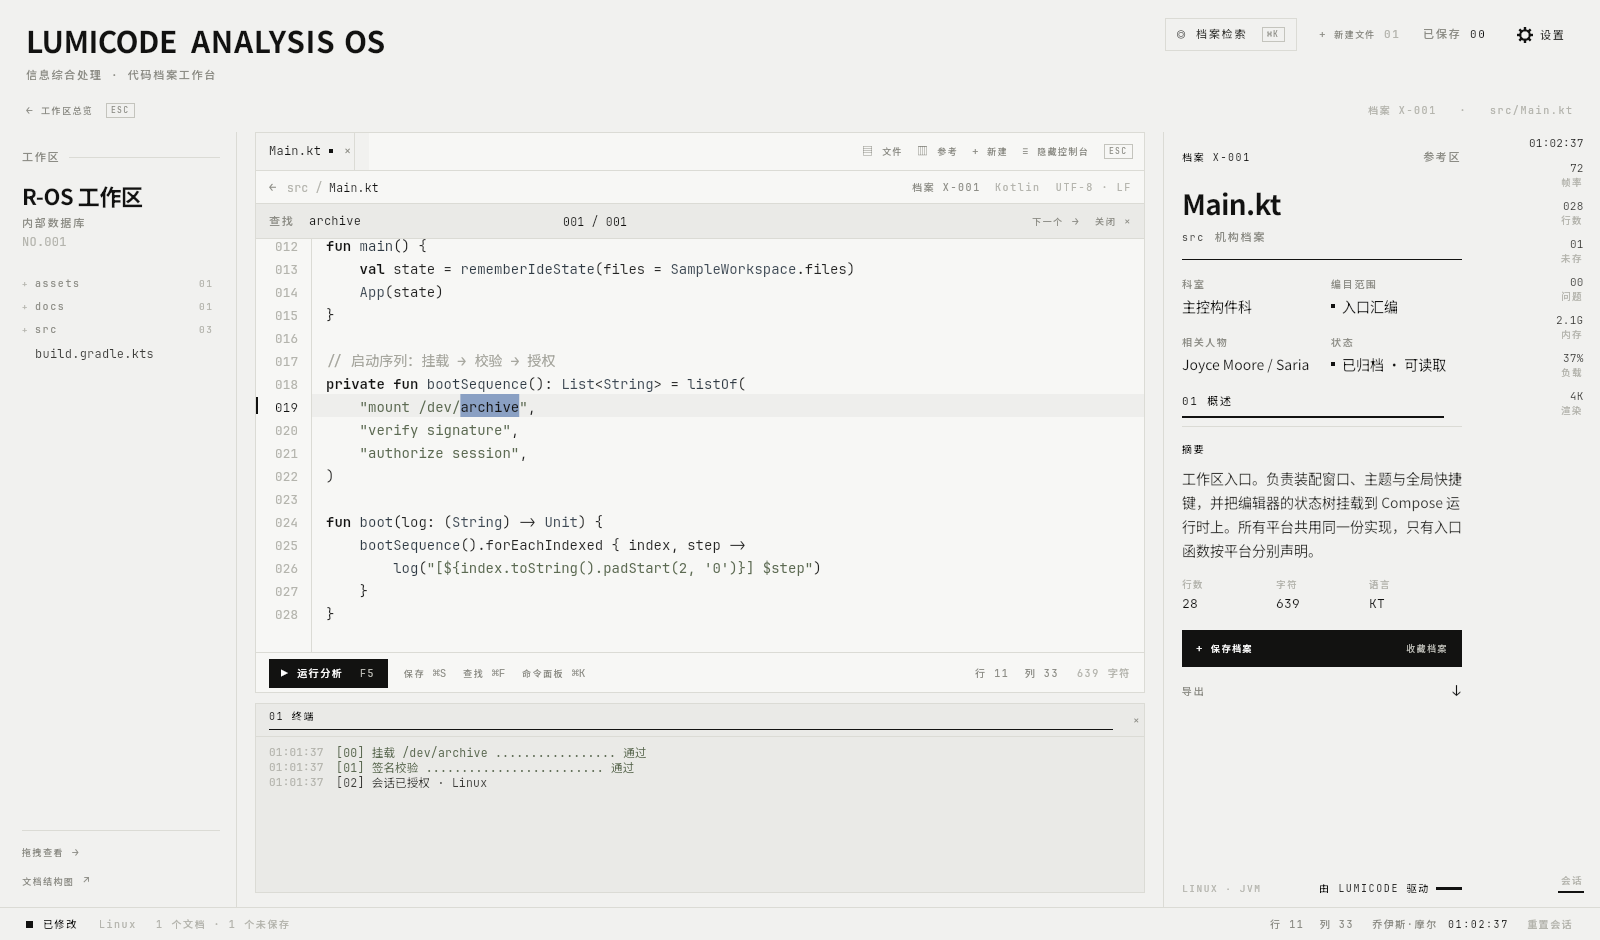
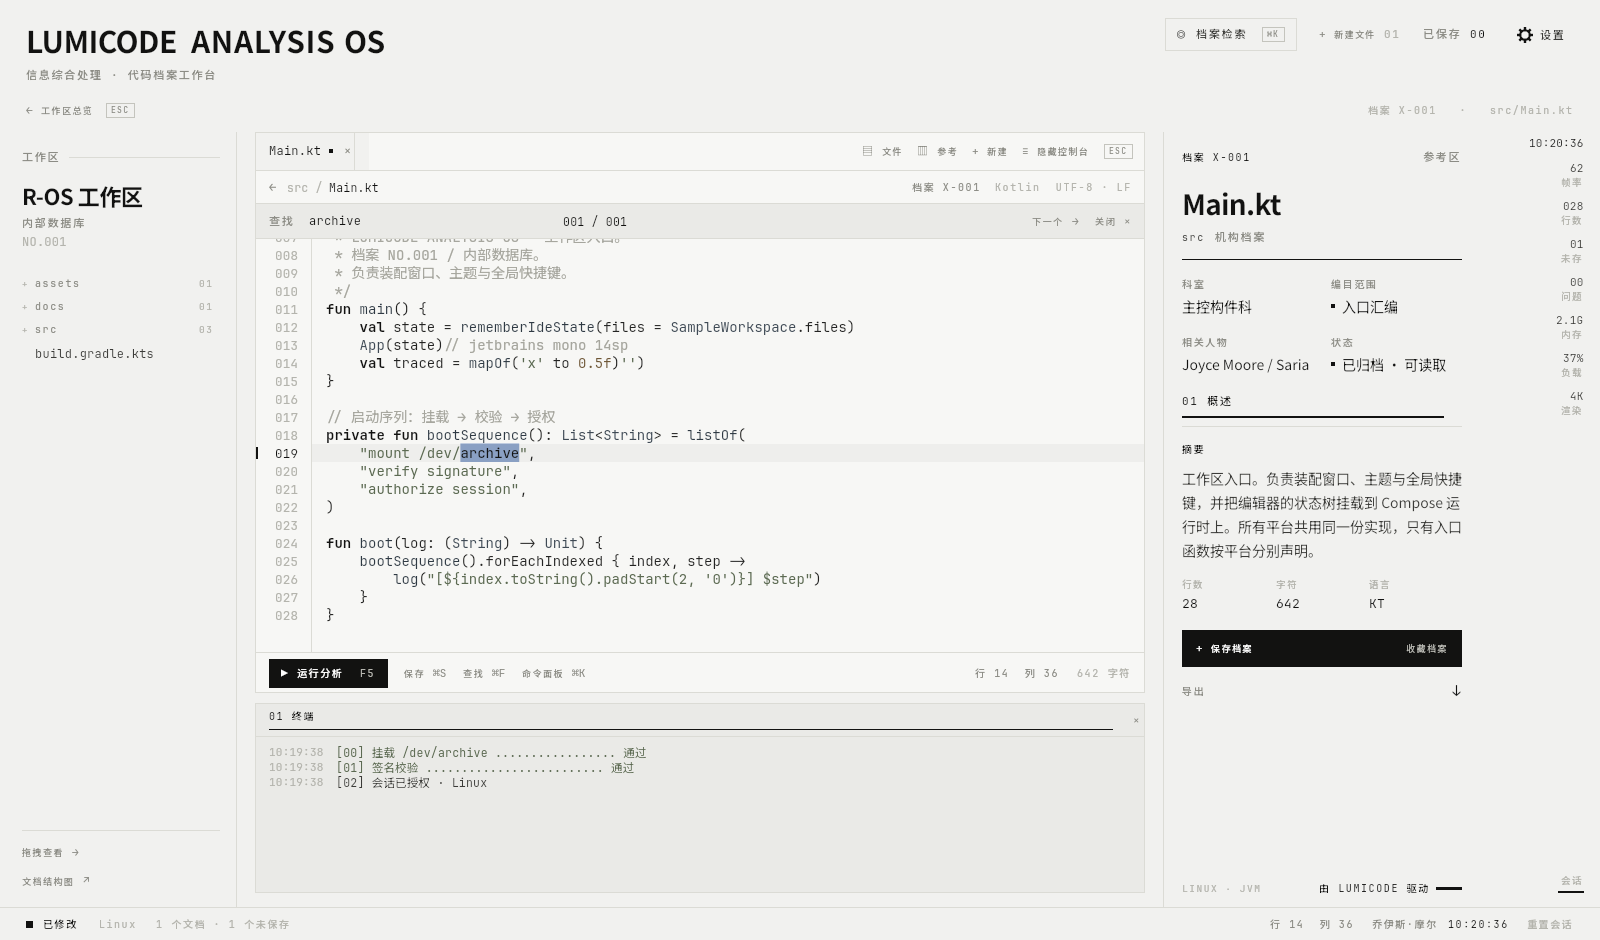
fix(editor): 行阴影真正包住字形——取消显式 lineHeight，行距改从真实布局读取
之前两次都判断错了方向，这次用像素剖面 + 运行时探针把事实钉死：
* Compose 在 lineHeight > 字体行高时把字形贴行框顶部排（基线 = 行框顶 + ascent），
  多余 leading 全在下方 -> 阴影里的代码偏上；
* LineHeightStyle.Alignment.Center 不生效；我加的「半 leading 补偿」实测前后像素完全一致（上9/下5），
  等于没起作用；而 wasm 端因内置字体异步加载，TextMeasurer 量到的度量还可能与桌面不同。

改为：代码样式不设 lineHeight（行框 = 字体自身行高，字形填满、阴影带天然居中），
行距由 onTextLayout 从真实文本布局测得（首帧用估值兜底）。
实测桌面整行样本：改前上9/下5 -> 改后上2/下1；Web 端阴影带高度与桌面一致（18px）。
文档截图全部按新行距重拍。

diff --git a/composeApp/src/commonMain/kotlin/com/lumicode/editor/ui/CodeEditor.kt b/composeApp/src/commonMain/kotlin/com/lumicode/editor/ui/CodeEditor.kt
@@ -40,7 +40,6 @@ import androidx.compose.ui.input.key.onPreviewKeyEvent
 import androidx.compose.ui.input.key.type
 import androidx.compose.ui.platform.LocalDensity
 import androidx.compose.ui.text.TextRange
-import androidx.compose.ui.unit.TextUnit
 import androidx.compose.ui.text.input.OffsetMapping
 import androidx.compose.ui.text.input.TextFieldValue
 import androidx.compose.ui.text.input.TransformedText
@@ -79,8 +78,11 @@ fun CodeEditor(
     modifier: Modifier = Modifier,
 ) {
     val density = LocalDensity.current
-    val lineHeight = RlSettings.codeLineHeight
-    val lineHeightPx = with(density) { lineHeight.toPx() }
+    // 行距：先用设置值估一个初值，首帧布局后由 onTextLayout 用真实度量覆盖
+    var lineHeightPx by remember(path) {
+        mutableStateOf(with(density) { RlSettings.codeLineHeight.toPx() })
+    }
+    val lineHeight = with(density) { lineHeightPx.toDp() }
     val verticalScroll = rememberScrollState()
     val horizontalScroll = rememberScrollState()
     val measurer = rememberTextMeasurer()
@@ -89,21 +91,6 @@ fun CodeEditor(
     val charWidth = remember(measurer, RlSettings.codeFontSize) {
         val measured = measurer.measure("0000000000", RlType.code)
         (measured.size.width / 10f).toInt().coerceAtLeast(1)
-    }
-
-    /**
-     * 行阴影对齐用的几何量。
-     *
-     * Compose 在 lineHeight 大于字体自身行高时，是把字形**贴行框顶部**排的
-     * （实测基线 = 行框顶 + ascent），多余的 leading 全部留在下方，于是「行阴影里的代码」
-     * 看起来偏上。这里量出字体自身行高，把文字整体下移半个 leading，
-     * 字形框就正好落在行框中央；行号栏同步下移，保持与代码同一节奏。
-     */
-    val leadingInset = remember(measurer, RlSettings.codeFontSize) {
-        val tight = measurer.measure("Mg", RlType.code.copy(lineHeight = TextUnit.Unspecified))
-        val fontHeightPx = (tight.getLineBottom(0) - tight.getLineTop(0)).toFloat()
-        val boxHeightPx = with(density) { RlSettings.codeLineHeight.toPx() }
-        with(density) { ((boxHeightPx - fontHeightPx) / 2f).coerceAtLeast(0f).toDp() }
     }
 
     var value by remember(path) { mutableStateOf(TextFieldValue(text, TextRange(0))) }
@@ -190,7 +177,7 @@ fun CodeEditor(
                         Column(
                             Modifier
                                 .fillMaxSize()
-                                .padding(top = RlDimens.codePaddingTop + leadingInset),
+                                .padding(top = RlDimens.codePaddingTop),
                             horizontalAlignment = Alignment.End,
                         ) {
                             for (line in 1..lineCount) {
@@ -264,6 +251,19 @@ fun CodeEditor(
                         },
                         textStyle = RlType.code,
                         cursorBrush = SolidColor(RlColors.Ink),
+                        onTextLayout = { result ->
+                            // 用真实布局量行距，避免依赖字体度量（内置字体是异步加载的）
+                            val measured = when {
+                                result.lineCount >= 2 ->
+                                    (result.getLineTop(1) - result.getLineTop(0)).toFloat()
+                                result.lineCount == 1 ->
+                                    (result.getLineBottom(0) - result.getLineTop(0)).toFloat()
+                                else -> 0f
+                            }
+                            if (measured > 1f && kotlin.math.abs(measured - lineHeightPx) > 0.01f) {
+                                lineHeightPx = measured
+                            }
+                        },
                         visualTransformation = VisualTransformation { annotated ->
                             if (annotated.text == value.text) {
                                 TransformedText(
@@ -281,7 +281,7 @@ fun CodeEditor(
                         },
                         modifier = Modifier
                             .fillMaxSize()
-                            .padding(start = RlDimens.codePaddingStart, top = RlDimens.codePaddingTop + leadingInset)
+                            .padding(start = RlDimens.codePaddingStart, top = RlDimens.codePaddingTop)
                             .onPreviewKeyEvent { event ->
                                 if (event.type != KeyEventType.KeyDown) return@onPreviewKeyEvent false
                                 val ctrl = event.isCtrlPressed || event.isMetaPressed

diff --git a/composeApp/src/commonMain/kotlin/com/lumicode/editor/ui/theme/RhineTheme.kt b/composeApp/src/commonMain/kotlin/com/lumicode/editor/ui/theme/RhineTheme.kt
@@ -46,12 +46,13 @@ object RlColors {
  * 用户可在设置页调整的项。用 Compose state 保存，改完立刻全局生效。
  */
 object RlSettings {
-    /** 代码字号（sp），行高按它推算，保证行号与代码对齐。 */
+    /** 代码字号（sp）。行距由字体自身行高决定（见 RlType.code）。 */
     var codeFontSize by mutableStateOf(14f)
     var tabWidth by mutableStateOf(4)
     var showLineNumbers by mutableStateOf(true)
     var showRail by mutableStateOf(true)
 
+    /** 仅作为首帧的估值：真实行距由 CodeEditor 从文本布局里量出来（见 onTextLayout）。 */
     val codeLineHeight: Dp get() = (codeFontSize + 9f).dp
 
     fun lineHeightSp(): Float = codeFontSize + 9f
@@ -157,7 +158,8 @@ object RlType {
         fontFamily = Mono,
         fontWeight = FontWeight.Normal,
         fontSize = RlSettings.codeFontSize.sp,
-        lineHeight = RlSettings.lineHeightSp().sp,
+        // 不设 lineHeight：让行框 = 字体自身行高（ascent+descent）。这样字形正好填满行框，
+        // 行阴影带天然包住字形、视觉居中；显式加大行高时 Compose 会把字形贴顶排、leading 留在下方。
         letterSpacing = 0.0.em,
         color = RlColors.CodeDefault,
     )
@@ -166,7 +168,6 @@ object RlType {
         fontFamily = Mono,
         fontWeight = FontWeight.Normal,
         fontSize = (RlSettings.codeFontSize - 1.5f).sp,
-        lineHeight = RlSettings.lineHeightSp().sp,
         letterSpacing = 0.02.em,
         color = RlColors.Faint,
     )

diff --git a/README.md b/README.md
@@ -53,9 +53,13 @@
 - **键盘焦点**：点击界面任意位置都会把键盘焦点交回外壳，避免某些情况下快捷键/ESC 失灵（浏览器端尤其明显）。
 - **动效**：光标换行时，当前行高亮带与左侧行号栏的高亮标记会用 140ms 的缓动滑过去；
   查找跳转 / 大纲跳转用的是平滑滚动。
-- **光标可见性**：上下方向键（或输入）把光标移出可视区时自动滚动，光标行始终留在框内；
-  行高亮带按 `LineHeightStyle.Alignment.Center` 在行框内垂直居中，
-  行高比字形高时不会出现「代码贴上边」。
+- **光标可见性**：上下方向键（或输入）把光标移出可视区时自动滚动，光标行始终留在框内。
+- **行高亮带对齐**（踩过坑）：Compose 在显式 `lineHeight` 大于字体自身行高时，是把字形**贴行框顶部**
+  排的（实测基线 = 行框顶 + ascent），多余 leading 全留在下方 —— 于是「行阴影里的代码」看起来偏上，
+  而 `LineHeightStyle.Alignment.Center` 并不生效（wasm 上还会因字体异步加载量到不同结果）。
+  现在**不给代码设 `lineHeight`**：行框就等于字体自身行高，字形正好填满，阴影带天然包住字形；
+  行距则用 `onTextLayout` 从**真实文本布局**里量（`getLineTop(1) - getLineTop(0)`），
+  不再依赖字体度量，四端一致。
 - **字号**：代码默认 14sp（设置页 12–22sp 可调，行高自动跟随），
   标签/状态栏/遥测栏在 11–13sp，都对齐到「文件名」那一档的可读性。
 
